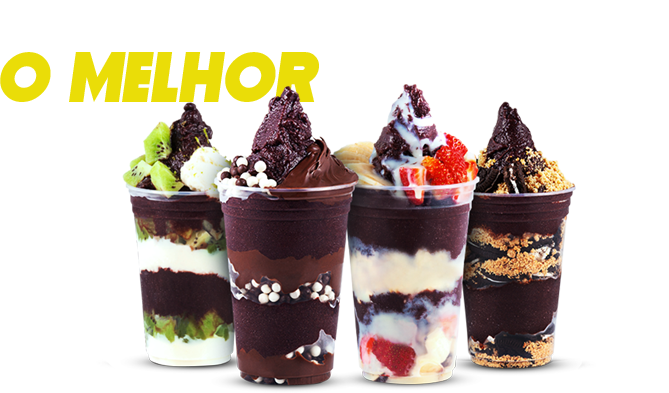
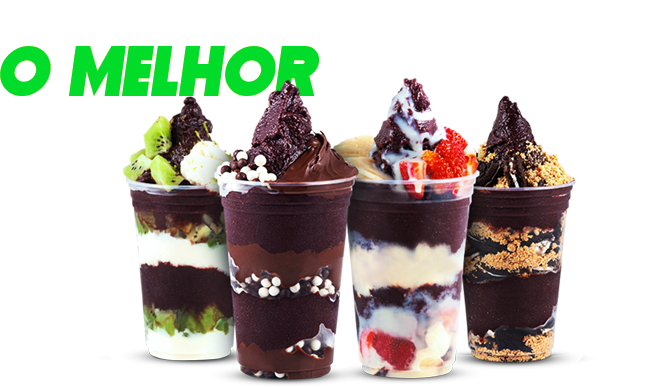
rename acaiteria

diff --git a/index.html b/index.html
@@ -7,8 +7,9 @@
     <link rel="preconnect" href="https://fonts.googleapis.com">
     <link rel="preconnect" href="https://fonts.gstatic.com" crossorigin>
     <link href="https://fonts.googleapis.com/css2?family=Montserrat:ital,wght@0,100..900;1,100..900&family=Roboto:ital,wght@0,100;0,300;0,400;0,500;0,700;0,900;1,100;1,300;1,400;1,500;1,700;1,900&display=swap" rel="stylesheet">
+    <link rel="shortcut icon" href="./src/assets/favicon.ico" type="image/x-icon">
 
-    <title>Açaí Plus</title>
+    <title>Açaí Ruby</title>
   </head>
   <body>
     <div id="root"></div>

diff --git a/src/pages/Home/style.ts b/src/pages/Home/style.ts
@@ -56,9 +56,10 @@ export const Container = styled.div`
   }
 
   p:last-of-type {
-    background-color: ${({ theme }) => theme.COLORS.YELLOW};
+    background-color: ${({ theme }) => theme.COLORS.GREEN};
     color: ${({ theme }) => theme.COLORS.PURPLE};
     font-weight: 600;
+    text-align: center;
     letter-spacing: 4px;
     padding: 0 2.5rem;
   }

diff --git a/src/styles/theme.ts b/src/styles/theme.ts
@@ -1,7 +1,8 @@
 export default {
   COLORS: {
-    WHITE: "#fff",
+    WHITE: "#EDEDED",
     YELLOW: "#fff91d",
+    GREEN: "#5fd335",
     PURPLE: "#550155",
     PURPLE_22: "#7f1d7e",
     BACKGROUND_GRADIENT: "radial-gradient(circle, rgba(138,34,137,1) 0%, rgba(74,15,79,1) 70%)",

diff --git a/src/pages/NotFound404.tsx b/src/pages/NotFound404.tsx
@@ -4,7 +4,7 @@ export function NotFound404(): ReactElement {
   return (
     <>
       <h1> ERROR 404 </h1>
-      <a href="https://acai-plus.netlify.app">voltar</a>
+      <a href="https://acai-ruby.netlify.app">voltar</a>
     </>
   )
 }

diff --git a/src/pages/Home/index.tsx b/src/pages/Home/index.tsx
@@ -18,7 +18,7 @@ export function Home(): ReactElement {
       <main>
         <div>
           <div>
-            <h1>AÇAÍ PLUS</h1>
+            <h1>AÇAÍ RUBY</h1>
             <h2>SUPER PROMOÇÃO</h2>
           </div>
 

diff --git a/src/styles/global.ts b/src/styles/global.ts
@@ -42,7 +42,7 @@ export default createGlobalStyle`
   }
 
   h2 {
-    color: ${({ theme }) => theme.COLORS.YELLOW};
+    color: ${({ theme }) => theme.COLORS.GREEN};
   }
 
   button {

diff --git a/src/pages/Menu/style.ts b/src/pages/Menu/style.ts
@@ -48,7 +48,7 @@ export const Container = styled.div`
   }
 
   > img {
-    width: 8rem;
+    width: 11rem;
     position: absolute;
     top: 24rem;
     left: 2rem;
